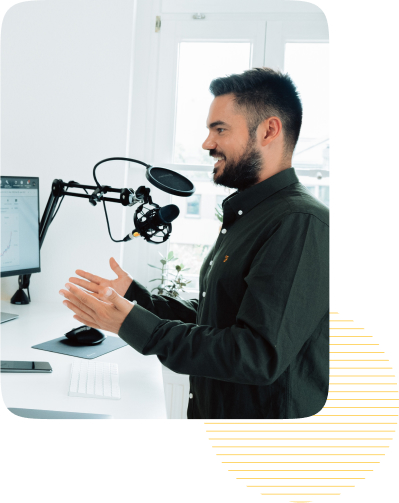
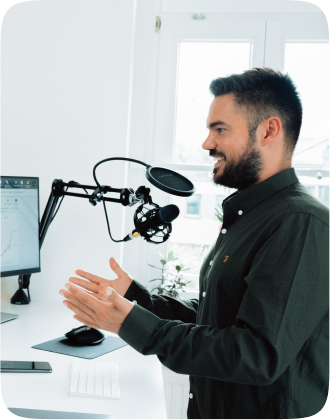
style added

diff --git a/src/components/hero/index.tsx b/src/components/hero/index.tsx
@@ -5,28 +5,50 @@ import { BsArrowUpRight } from 'react-icons/bs';
 // local images
 import leftImage from './assets/img/left.jpg';
 import rightImage from './assets/img/right.jpg';
+import circle from './assets/img/circle.png';
+import light from './assets/img/light.png';
+import path from './assets/img/path.png';
 
 const Hero = ({ title, description, btnText }: IRCHero) => {
   return (
     <>
-      <div className="rc-hero">
-        <div className="mx-auto max-w-[1440px] 2xl:max-w-[1552px]">
+      <div className="rc-hero relative pb-[100px] pt-[170px]">
+        <div className="mx-auto max-w-[1552px]">
           <div className="rc-hero-content flex">
             <div className="rc-hero-left w-[60%]">
-              <div className="rc-hero-left-top">
-                <h1 className="text-right text-[48px] font-bold text-[#111D5E] 2xl:text-[140px]">
-                  React <br /> Conference
-                </h1>
+              <div className="rc-hero-left-top rtl mb-[30px]" dir="rtl">
+                <div className="relative">
+                  <div className="absolute top-[-40px] xl:left-[50%] 2xl:left-[52%]">
+                    <Image
+                      src={light}
+                      width={85}
+                      height={82}
+                      alt="left-heading-top"
+                    />
+                  </div>
+                  <h1 className="text-[48px] font-bold leading-[121%] text-[#111D5E] lg:text-[90px] 2xl:text-[140px]">
+                    React Conference
+                  </h1>
+                </div>
               </div>
-              <div className="rc-hero-left-bottom flex">
-                <Image
-                  src={leftImage}
-                  width={398}
-                  height={500}
-                  alt="left-image"
-                />
-                <div>
-                  <p className="mb-[32px] text-[18px] opacity-80 2xl:mb-[80px]">
+              <div className="rc-hero-left-bottom flex justify-between">
+                <div className="relative w-[45%]">
+                  <Image
+                    src={leftImage}
+                    width={330}
+                    height={420}
+                    alt="left-image"
+                  />
+                  <Image
+                    src={circle}
+                    width={196}
+                    height={190}
+                    alt="left-circle"
+                    className="absolute bottom-[-85px] right-0 z-[-1]"
+                  />
+                </div>
+                <div className="w-[55%]">
+                  <p className="mb-[32px] mt-4 text-[18px] opacity-80 2xl:mb-[80px]">
                     Lorem uis diam turpis quam id fermentum.In quis diam turpis
                     quam id fermentum..id fermentum.In quis diam turpis quam id
                     fermentum.

diff --git a/src/layout/header/index.tsx b/src/layout/header/index.tsx
@@ -1,23 +1,25 @@
 import Container from '@components/container';
 import { IHeader } from './interface';
 import CustomLink from '@components/custom-link';
-
+import { HiBars3 } from 'react-icons/hi2';
 export default function Header({ logo, menuItems }: IHeader) {
   return (
-    <header role="presentation" className="bg-black">
+    <header role="presentation" className="fixed w-full bg-transparent">
       <Container>
         <div className="flex flex-col lg:flex-row lg:items-center lg:justify-between">
           {/* <h1 className="text-4xl text-white">
             <CustomLink href={'/'} isOpenNewTab={false} label={logo} />
           </h1> */}
-          <img src={logo} alt="logo" />
+          <div className="w-[20%]">
+            <img src={logo} alt="logo" />
+          </div>
           {menuItems.length > 0 && (
             <nav>
-              <ul className="flex flex-col gap-5 lg:flex-row lg:items-center lg:gap-12">
+              <ul className="flex w-[60%] flex-col gap-5 lg:flex-row lg:items-center lg:gap-12">
                 {menuItems.map(({ label, href }, index) => (
                   <li key={index}>
                     <CustomLink
-                      className="inline-flex items-end py-[38px] text-base font-bold text-white transition hover:text-primary"
+                      className="inline-flex items-end py-[38px] text-[18px] font-medium text-[#0A142F] transition hover:text-primary"
                       href={href}
                       isOpenNewTab={false}
                       label={label}
@@ -27,6 +29,9 @@ export default function Header({ logo, menuItems }: IHeader) {
               </ul>
             </nav>
           )}
+          <div className="w-[20%]" dir="rtl">
+            <HiBars3></HiBars3>
+          </div>
         </div>
       </Container>
     </header>

diff --git a/app/page.tsx b/app/page.tsx
@@ -14,7 +14,7 @@
 // import { generateMetaObject } from 'src/utils/generate-meta-data';
 // // import { draftMode } from 'next/headers';
 
-import Hero from "@components/hero";
+import Hero from '@components/hero';
 
 // // const getPageData = cache(async () => {
 // //   let data;
@@ -92,13 +92,7 @@ import Hero from "@components/hero";
 export default async function Event() {
   return (
     <>
-      <div className="section-padding-primary">
-        <Hero
-          title = ""
-          description=""
-          btnText=""
-        />
-      </div>
+      <Hero title="" description="" btnText="" />
     </>
   );
 }
